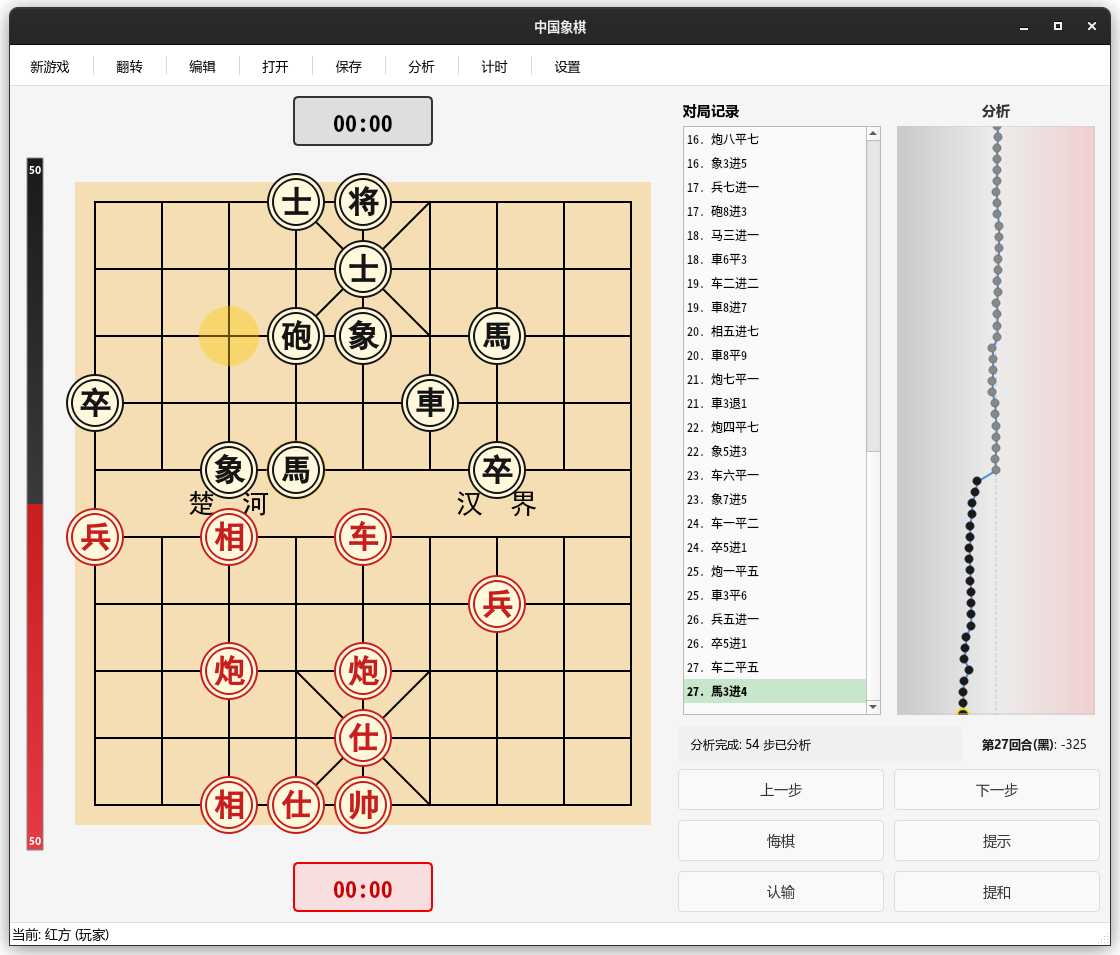
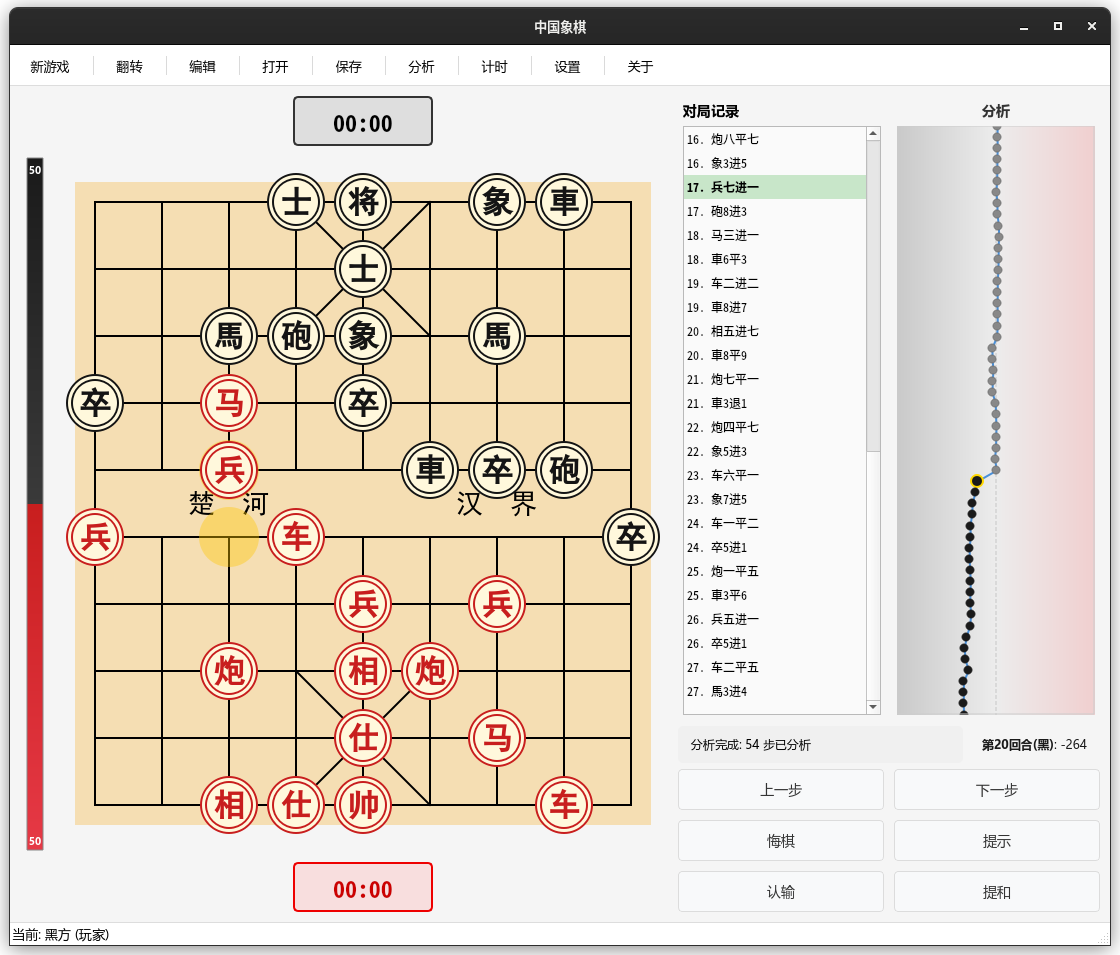
add about

diff --git a/main_window.py b/main_window.py
@@ -698,6 +698,12 @@ class MainWindow(QMainWindow):
         settings_btn = QAction("设置", self)
         settings_btn.triggered.connect(self._show_settings)
         toolbar.addAction(settings_btn)
+        
+        toolbar.addSeparator()
+        
+        about_btn = QAction("关于", self)
+        about_btn.triggered.connect(self._show_about)
+        toolbar.addAction(about_btn)
     
     def _setup_statusbar(self):
         """Setup the status bar"""
@@ -1181,6 +1187,15 @@ class MainWindow(QMainWindow):
             self.save_settings()
             self._update_status()
             self._check_engine_turn()
+            
+    def _show_about(self):
+        """Show about dialog"""
+        QMessageBox.about(self, "关于", 
+            "软件名称：xiangqi_pyqt\n"
+            "软件版本：v1.0.1\n"
+            "软件仓库：https://github.com/yanyuandaxia/xiangqi_pyqt\n"
+            "作者：yanyuandaxia"
+        )
             
     def load_settings(self):
         """Load settings from JSON file"""
